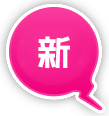
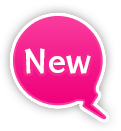
Deployment auto commit 2015-05-03 12:22:37 +0800

diff --git a/stylesheets/gacha.css b/stylesheets/gacha.css
@@ -291,7 +291,7 @@ body {
     /* line 259, /Users/amber/Workspace/HANDBOOK/Merusuto/website/source/stylesheets/gacha.scss */
     #foreground .gacha .new {
       position: absolute;
-      height: 10%;
+      height: 12%;
       top: 15%;
       left: 30%;
       opacity: 0; }
@@ -449,7 +449,7 @@ body {
   /* line 459, /Users/amber/Workspace/HANDBOOK/Merusuto/website/source/stylesheets/gacha.scss */
   #foreground .gacha .new {
     top: 25%;
-    left: 15%; }
+    left: 10%; }
   /* line 464, /Users/amber/Workspace/HANDBOOK/Merusuto/website/source/stylesheets/gacha.scss */
   #foreground .gacha .skip {
     top: 80%;
